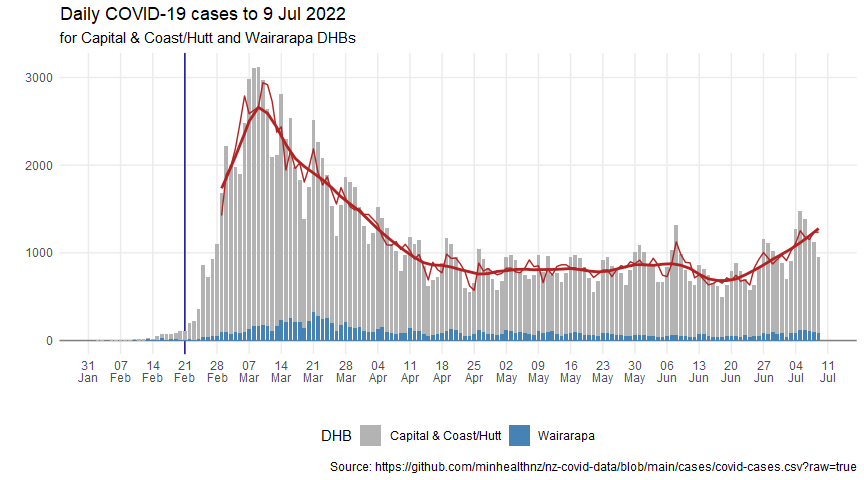
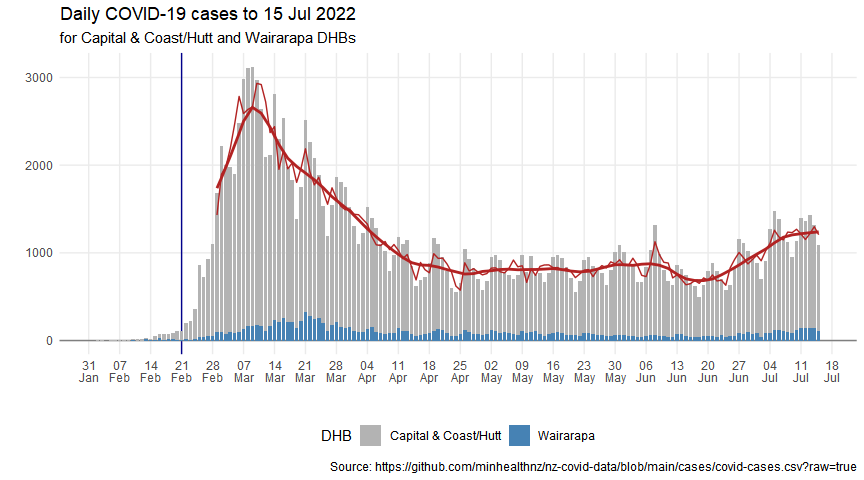
Update for 20220716

Changed region(s): [[0.0938, 0.125, 0.9688, 0.8125], [0.2812, 0.0, 0.4062, 0.0625]]

diff --git a/covid-post-peak-analysis.md b/covid-post-peak-analysis.md
@@ -29,9 +29,7 @@ cases_df <- read_csv(case_data_url) %>%
   clean_names()
 ```
 
-    ## Warning: One or more parsing issues, see `problems()` for details
-
-    ## Rows: 1429924 Columns: 7
+    ## Rows: 1494272 Columns: 7
 
     ## -- Column specification --------------------------------------------------------
     ## Delimiter: ","
@@ -50,7 +48,7 @@ cases_by_dhb_df <- cases_df %>%
   count(report_date, dhb, case_status)
 ```
 
-## Wellington figures up to 9 Jul 2022
+## Wellington figures up to 15 Jul 2022
 
 Including Hutt and Wairarapa as well as CCDHB.
 
